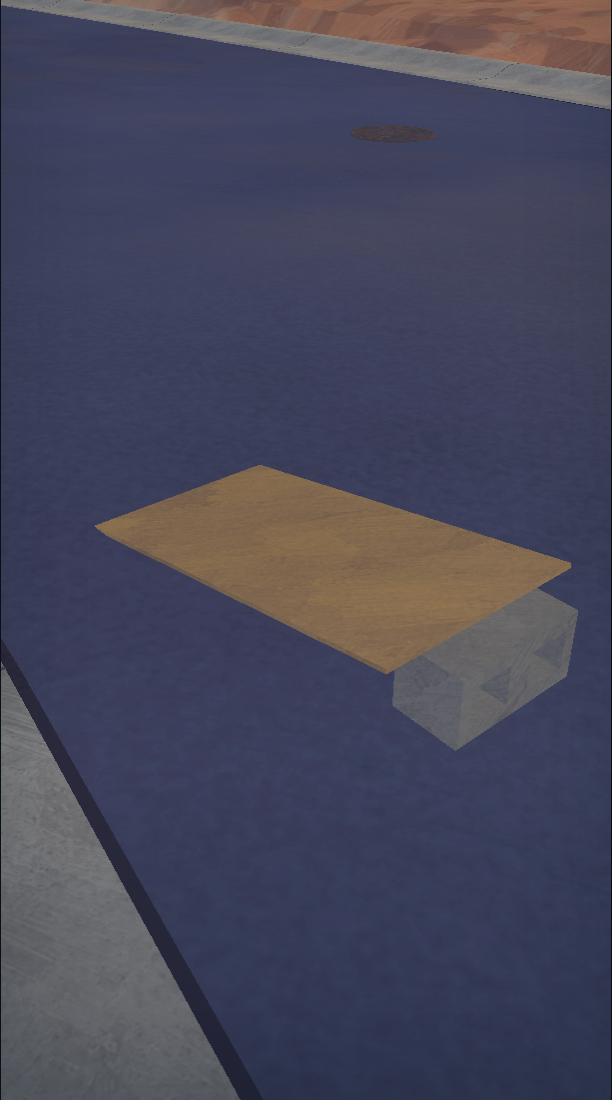
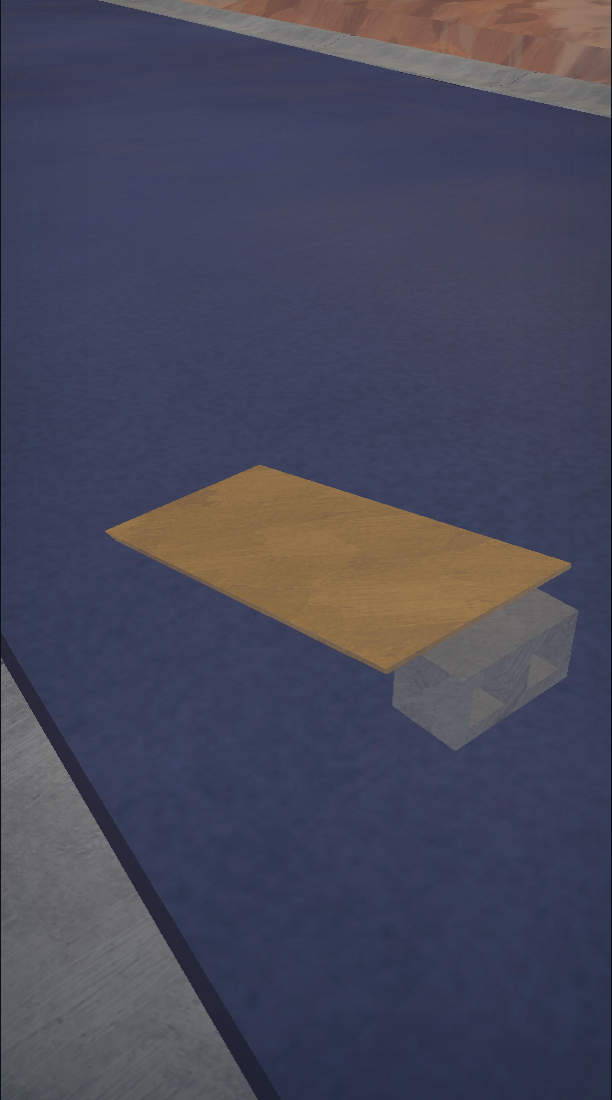
Move study 85 ramp to corrected lower-right bend

diff --git a/studies/85/index.html b/studies/85/index.html
@@ -5,12 +5,12 @@
 </style>
 <main><header><h1>The Track: 2008</h1><span>Study 85 · road details</span></header>
 <section aria-live="polite"><h2 id="title">1 · Lower camera</h2><p id="description">The numbered locations and tree clusters for your review.</p></section>
-<figure><a id="full" href="00-map.svg" target="_blank" rel="noopener" aria-label="Open full-size image for zooming"><img id="frame" src="00-map.svg" alt="Detail placement map"></a></figure>
+<figure><a id="full" href="00-map.svg?r=2" target="_blank" rel="noopener" aria-label="Open full-size image for zooming"><img id="frame" src="00-map.svg?r=2" alt="Detail placement map"></a></figure>
 <nav aria-label="Study images"><button id="prev" disabled>Previous</button><span id="count" aria-live="polite">1 / 7</span><button id="next">Next</button></nav>
 <p class="note">Tap the image to open and zoom. Refer to its number in your feedback.</p></main>
 <noscript>Enable JavaScript to navigate these seven still images.</noscript>
 <script>
-const frames=[["00-map.svg", "Placement map", "Numbers match your sketch. T marks the young-tree groups; the thin tan line is the footpath."], ["01-divot.png", "1 \u00b7 Settled asphalt", "A rounded depression reaching partway across the lane. The car takes a smooth line around it; the board can pop off the far lip."], ["02-patches.png", "2 \u00b7 Asphalt repairs", "Staggered patches on opposite sides: shallow raised surfaces with rounded edges. The car drives straight through."], ["03-ramp.png", "3 \u00b7 Plywood ramp", "A quarter sheet on a hollow concrete block, angled slightly toward the car\u2019s line."], ["04-trees.png", "4 \u00b7 Young trees", "Small broadleaf groups with layered, muted crowns. The original distant treeline remains."], ["05-path-gate.png", "Gate-side path connection", "The path reaches the curb with a short concrete transition."], ["06-path-lower.png", "Opposite path connection", "The other end also meets the curb."]];
+const frames=[["00-map.svg?r=2", "Placement map", "Numbers match your sketch. T marks the young-tree groups; the thin tan line is the footpath."], ["01-divot.png", "1 \u00b7 Settled asphalt", "A rounded depression reaching partway across the lane. The car takes a smooth line around it; the board can pop off the far lip."], ["02-patches.png", "2 \u00b7 Asphalt repairs", "Staggered patches on opposite sides: shallow raised surfaces with rounded edges. The car drives straight through."], ["03-ramp.png?r=2", "3 \u00b7 Plywood ramp", "Moved to your green dot on the lower-right bend. The same quarter-sheet ramp, angled slightly toward the car."], ["04-trees.png", "4 \u00b7 Young trees", "Small broadleaf groups with layered, muted crowns. The original distant treeline remains."], ["05-path-gate.png", "Gate-side path connection", "The path reaches the curb with a short concrete transition."], ["06-path-lower.png", "Opposite path connection", "The other end also meets the curb."]];
 let current=Math.max(0,Math.min(frames.length-1,Math.floor(Number(location.hash.slice(1))||1)-1));const el=id=>document.getElementById(id);
 function show(){const [file,title,description]=frames[current];el('frame').src=file;el('frame').alt=title;el('full').href=file;el('title').textContent=title;el('description').textContent=description;el('count').textContent=(current+1)+' / '+frames.length;el('prev').disabled=current===0;el('next').disabled=current===frames.length-1;history.replaceState(null,'','#'+(current+1));if(current+1<frames.length){const next=new Image();next.src=frames[current+1][0];}}
 el('prev').onclick=()=>{if(current>0){current--;show();}};el('next').onclick=()=>{if(current<frames.length-1){current++;show();}};
